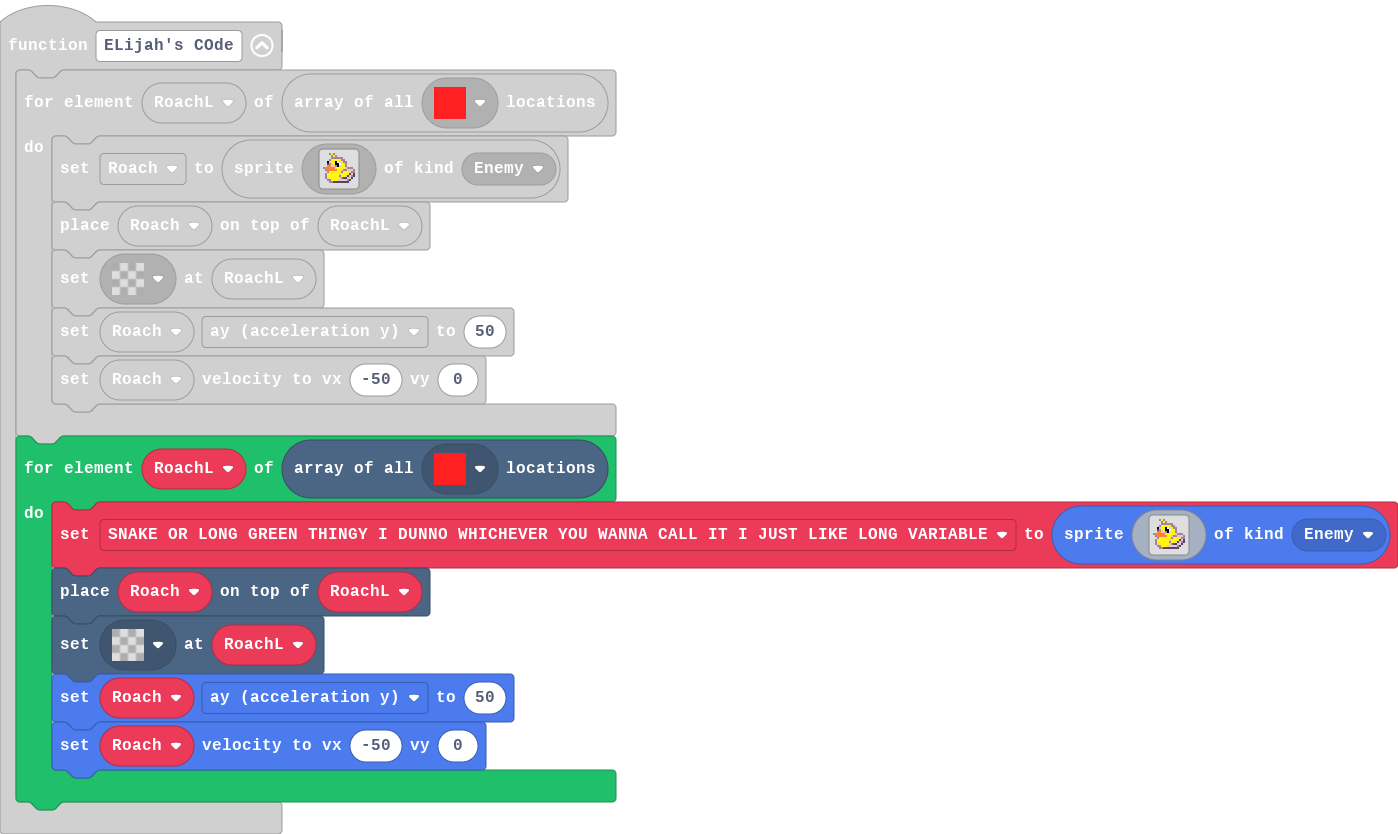
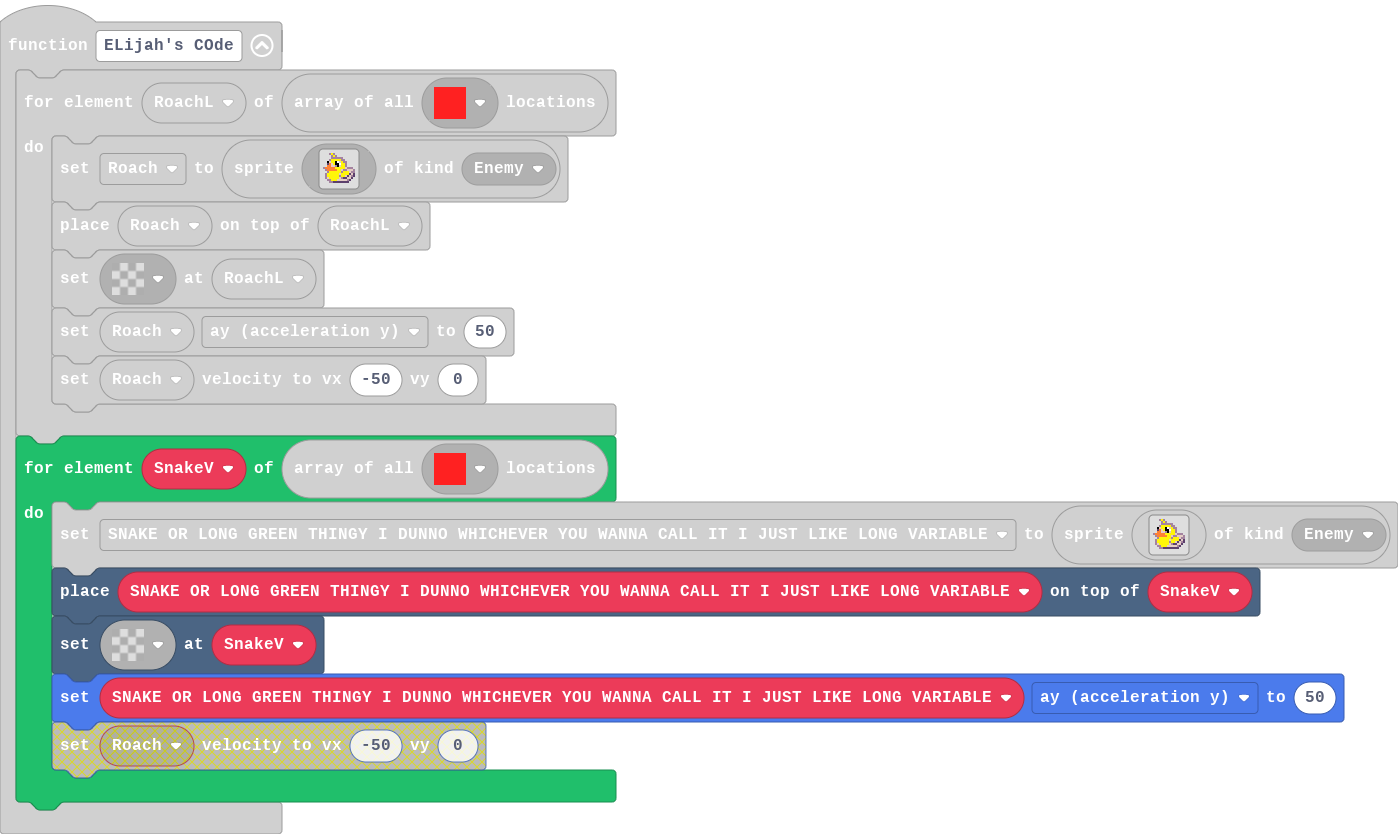
Update main.blocks, main.ts

Changed region(s): [[0.0308, 0.4988, 1.0, 0.9353]]

diff --git a/main.ts b/main.ts
@@ -68,12 +68,11 @@ function ELijahs_COde () {
         Roach.ay = 50
         Roach.setVelocity(-50, 0)
     }
-    for (let RoachL of tiles.getTilesByType(assets.tile`Roach`)) {
+    for (let SnakeV of tiles.getTilesByType(assets.tile`Roach`)) {
         SNAKE_OR_LONG_GREEN_THINGY_I_DUNNO_WHICHEVER_YOU_WANNA_CALL_IT_I_JUST_LIKE_LONG_VARIABLE = sprites.create(assets.image`Roach other direction`, SpriteKind.Enemy)
-        tiles.placeOnTile(Roach, RoachL)
-        tiles.setTileAt(RoachL, assets.tile`transparency16`)
-        Roach.ay = 50
-        Roach.setVelocity(-50, 0)
+        tiles.placeOnTile(SNAKE_OR_LONG_GREEN_THINGY_I_DUNNO_WHICHEVER_YOU_WANNA_CALL_IT_I_JUST_LIKE_LONG_VARIABLE, SnakeV)
+        tiles.setTileAt(SnakeV, assets.tile`transparency16`)
+        SNAKE_OR_LONG_GREEN_THINGY_I_DUNNO_WHICHEVER_YOU_WANNA_CALL_IT_I_JUST_LIKE_LONG_VARIABLE.ay = 50
     }
 }
 let SNAKE_OR_LONG_GREEN_THINGY_I_DUNNO_WHICHEVER_YOU_WANNA_CALL_IT_I_JUST_LIKE_LONG_VARIABLE: Sprite = null
